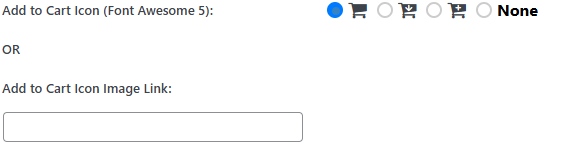
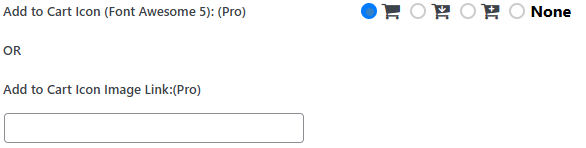
dashboard settings complete properly

diff --git a/Assets/JS/scripts.js b/Assets/JS/scripts.js
@@ -81,9 +81,6 @@ jQuery(document).ready(function () {
     jQuery("[name=gallery-navigation-button-background-hover-color]").prop("disabled", true);
     jQuery("#gallery-navigation-button-background-hover-color").removeAttr("id");
 
-    jQuery("[name=quick-table-head-bg-color]").prop("disabled", true);
-    jQuery("#quick-table-head-bg-color").removeAttr("id");
-
     jQuery("[name=template2-table-bg-color]").prop("disabled", true);
     jQuery("#template2-table-bg-color").removeAttr("id");
 
@@ -110,12 +107,6 @@ jQuery(document).ready(function () {
 
     jQuery("[name=list-badge-text-color]").prop("disabled", true);
     jQuery("#list-badge-text-color").removeAttr("id");
-
-    jQuery("[name=quick-table-head-text-color]").prop("disabled", true);
-    jQuery("#quick-table-head-text-color").removeAttr("id");
-
-    jQuery("[name=quick-table-variable-title-color]").prop("disabled", true);
-    jQuery("#quick-table-variable-title-color").removeAttr("id");
 
     jQuery("[name=quick-carousel-autoplay]").prop("disabled", true);
     jQuery("[name=quick-carousel-autoplay]").prop("checked", false);
@@ -178,10 +169,6 @@ jQuery(document).ready(function () {
     jQuery("[name=list-badge-discount-flat-price]").prop("checked", false);
     jQuery(".list-badge-discount-flat-price").removeClass("list-badge-discount-flat-price");
 
-    jQuery("[name=quick-table-border]").prop("disabled", true);
-    jQuery("[name=quick-table-border]").prop("checked", false);
-    jQuery(".quick-table-border").removeClass("quick-table-border");
-
     jQuery("[name=show-popup-image]").prop("disabled", true);
     jQuery("[name=show-popup-image]").prop("checked", false);
     jQuery(".show-popup-image").removeClass("quick-table-border");
@@ -189,18 +176,6 @@ jQuery(document).ready(function () {
     jQuery("[name=show-gallery-image-into-popup]").prop("disabled", true);
     jQuery("[name=show-gallery-image-into-popup]").prop("checked", false);
     jQuery(".show-gallery-image-into-popup").removeClass("quick-table-border");
-
-    jQuery("[name=quick-table-border-color]").prop("disabled", true);
-    jQuery("#quick-table-border-color").removeAttr("id");
-
-    jQuery("[name=quick-table-variable-bg-color-odd]").prop("disabled", true);
-    jQuery("#quick-table-variable-bg-color-odd").removeAttr("id");
-
-    jQuery("[name=quick-table-variable-bg-color-even]").prop("disabled", true);
-    jQuery("#quick-table-variable-bg-color-even").removeAttr("id");
-
-    jQuery("[name=quick-table-variable-hover-color]").prop("disabled", true);
-    jQuery("#quick-table-variable-hover-color").removeAttr("id");
 
     jQuery("[name=on-sale-name-change]").prop("disabled", true);
     jQuery("#on-sale-name-change").removeAttr("id");

diff --git a/Admin/Dashboard.php b/Admin/Dashboard.php
@@ -681,13 +681,8 @@ $variationListTemplate                 = isset($variableSetting['variationListTe
                         </div>
                     </div>
                     <!--Variation Table Template 1 All options-->
-                    <div id="variation-table-template1-options" style="display: none;">
                         <div class="quick-selections" style="display: flex; gap: 28%; align-items: center">
-                            <h4><?php echo wp_kses('Variation Table Border Show: ','product-variation-table-with-quick-cart');
-                                if(empty($license_active)){
-                                    echo "(Pro)";
-                                }
-                                ?></h4>
+                            <h4><?php echo wp_kses('Variation Table Border Show: ','product-variation-table-with-quick-cart');?></h4>
                             <div class="quick-selectors-wrapper">
                                 <div class="quick-table-border">
                                     <label class="switch">
@@ -700,81 +695,52 @@ $variationListTemplate                 = isset($variableSetting['variationListTe
 
                         <div class="quick-selections">
                             <div class="quick-selectors-wrapper">
-                                <label for="quick-table-head-bg-color"><strong> <?php echo wp_kses('Table Head Bg Color: ','product-variation-table-with-quick-cart');
-                                        if(empty($license_active)){
-                                            echo "(Pro)";
-                                        }
-                                        ?></strong></label>
+                                <label for="quick-table-head-bg-color"><strong> <?php echo wp_kses('Table Head Bg Color: ','product-variation-table-with-quick-cart');?></strong></label>
                                 <input id="quick-table-head-bg-color" name="quick-table-head-bg-color" value="<?php echo esc_attr( $tableHeadBgColor ); ?>"  data-jscolor="{}">
                             </div>
                         </div>
 
                         <div class="quick-selections">
                             <div class="quick-selectors-wrapper m-top" >
-                                <label for="quick-table-head-text-color"><strong> <?php echo wp_kses('Table Head Text Color: ','product-variation-table-with-quick-cart');
-                                        if(empty($license_active)){
-                                            echo "(Pro)";
-                                        }
-                                        ?></strong></label>
+                                <label for="quick-table-head-text-color"><strong> <?php echo wp_kses('Table Head Text Color: ','product-variation-table-with-quick-cart');?></strong></label>
                                 <input id="quick-table-head-text-color" name="quick-table-head-text-color" value="<?php echo esc_attr( $tableHeadTextColor ); ?>"  data-jscolor="{}">
                             </div>
                         </div>
 
                         <div class="quick-selections">
                             <div class="quick-selectors-wrapper m-top">
-                                <label for="quick-table-border-color"><strong> <?php echo wp_kses('Table Border Color: ','product-variation-table-with-quick-cart');
-                                        if(empty($license_active)){
-                                            echo "(Pro)";
-                                        }
-                                        ?></strong></label>
+                                <label for="quick-table-border-color"><strong> <?php echo wp_kses('Table Border Color: ','product-variation-table-with-quick-cart');?></strong></label>
                                 <input id="quick-table-border-color" name="quick-table-border-color" value="<?php echo esc_attr( $tableBorderColor ); ?>"  data-jscolor="{}">
                             </div>
                         </div>
 
                         <div class="quick-selections">
                             <div class="quick-selectors-wrapper m-top">
-                                <label for="quick-table-variable-title-color"><strong> <?php echo wp_kses('Variation Table Title Color: ','product-variation-table-with-quick-cart');
-                                        if(empty($license_active)){
-                                            echo "(Pro)";
-                                        }
-                                        ?></strong></label>
+                                <label for="quick-table-variable-title-color"><strong> <?php echo wp_kses('Variation Table Title Color: ','product-variation-table-with-quick-cart');?></strong></label>
                                 <input id="quick-table-variable-title-color" name="quick-table-variable-title-color" value="<?php echo esc_attr( $tableVariableTitleColor ); ?>"  data-jscolor="{}">
                             </div>
                         </div>
 
                         <div class="quick-selections">
                             <div class="quick-selectors-wrapper m-top">
-                                <label for="quick-table-variable-bg-color-odd"><strong> <?php echo wp_kses('Variation Table Background Color(Odd): ','product-variation-table-with-quick-cart');
-                                        if(empty($license_active)){
-                                            echo "(Pro)";
-                                        }
-                                        ?></strong></label>
+                                <label for="quick-table-variable-bg-color-odd"><strong> <?php echo wp_kses('Variation Table Background Color(Odd): ','product-variation-table-with-quick-cart'); ?></strong></label>
                                 <input id="quick-table-variable-bg-color-odd" name="quick-table-variable-bg-color-odd" value="<?php echo esc_attr( $tableBgColorOdd ); ?>"  data-jscolor="{}">
                             </div>
                         </div>
 
                         <div class="quick-selections">
                             <div class="quick-selectors-wrapper m-top">
-                                <label for="quick-table-variable-bg-color-even"><strong> <?php echo wp_kses('Variation Table Background Color(Even): ','product-variation-table-with-quick-cart');
-                                        if(empty($license_active)){
-                                            echo "(Pro)";
-                                        }
-                                        ?></strong></label>
+                                <label for="quick-table-variable-bg-color-even"><strong> <?php echo wp_kses('Variation Table Background Color(Even): ','product-variation-table-with-quick-cart');?></strong></label>
                                 <input id="quick-table-variable-bg-color-even" name="quick-table-variable-bg-color-even" value="<?php echo esc_attr( $tableBgColorEven ); ?>"  data-jscolor="{}">
                             </div>
                         </div>
 
                         <div class="quick-selections">
                             <div class="quick-selectors-wrapper m-top">
-                                <label for="quick-table-variable-hover-color"><strong> <?php echo wp_kses('Variation Table Background Color Hover: ','product-variation-table-with-quick-cart');
-                                        if(empty($license_active)){
-                                            echo "(Pro)";
-                                        }
-                                        ?></strong></label>
+                                <label for="quick-table-variable-hover-color"><strong> <?php echo wp_kses('Variation Table Background Color Hover: ','product-variation-table-with-quick-cart');?></strong></label>
                                 <input style="outline: none !important;" id="quick-table-variable-hover-color" name="quick-table-variable-hover-color" value="<?php echo esc_attr( $tableBgColorHover ); ?>"  data-jscolor="{}">
                             </div>
                         </div>
-                    </div>
 
                     <!-- Variation Table Position Select -->
                     <div class="quick-selections quick-selections-style">
@@ -1300,7 +1266,7 @@ $variationListTemplate                 = isset($variableSetting['variationListTe
             <h2><?php echo esc_html('Variation Gallery Setting (This Feature Available for Pro Version)','product-variation-table-with-quick-cart'); ?></h2>
 
             <div id="variation-gallery-dashboard"
-                 data-image="<?php echo esc_url(plugin_dir_url(__DIR__) . 'Assets/images/variation-gallery-dashboard.png'); ?>">
+                 data-image="<?php echo esc_url(plugin_dir_url(__DIR__) . 'Assets/images/variation-gallery-dashboard.jpg'); ?>">
             </div>
 
         </div>
